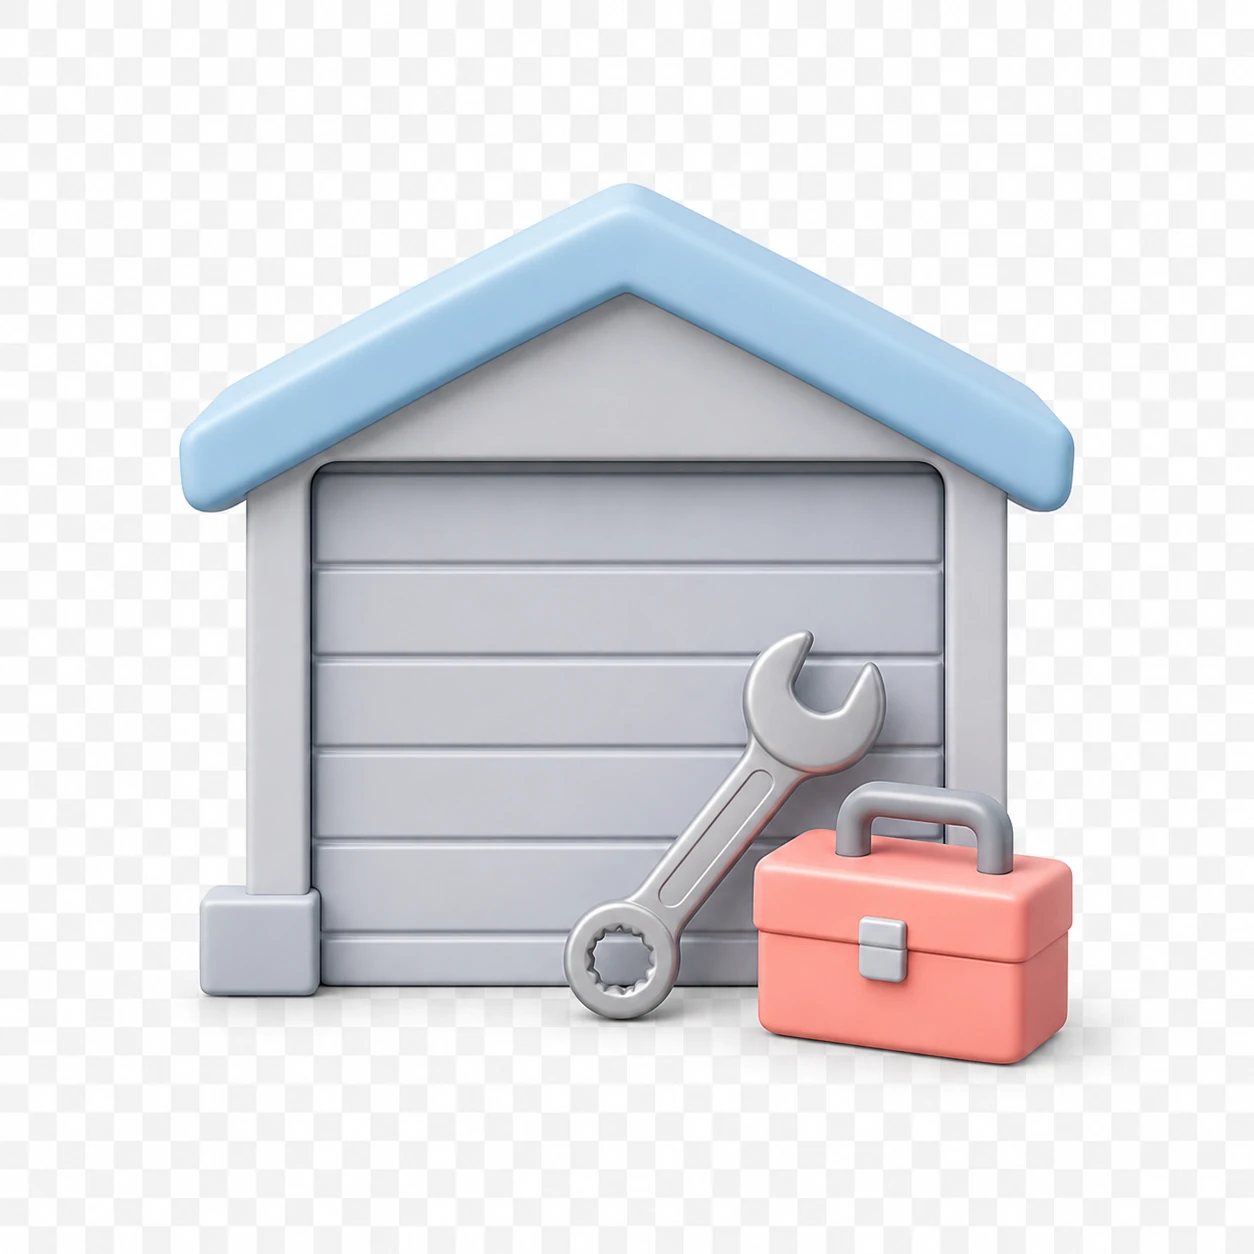
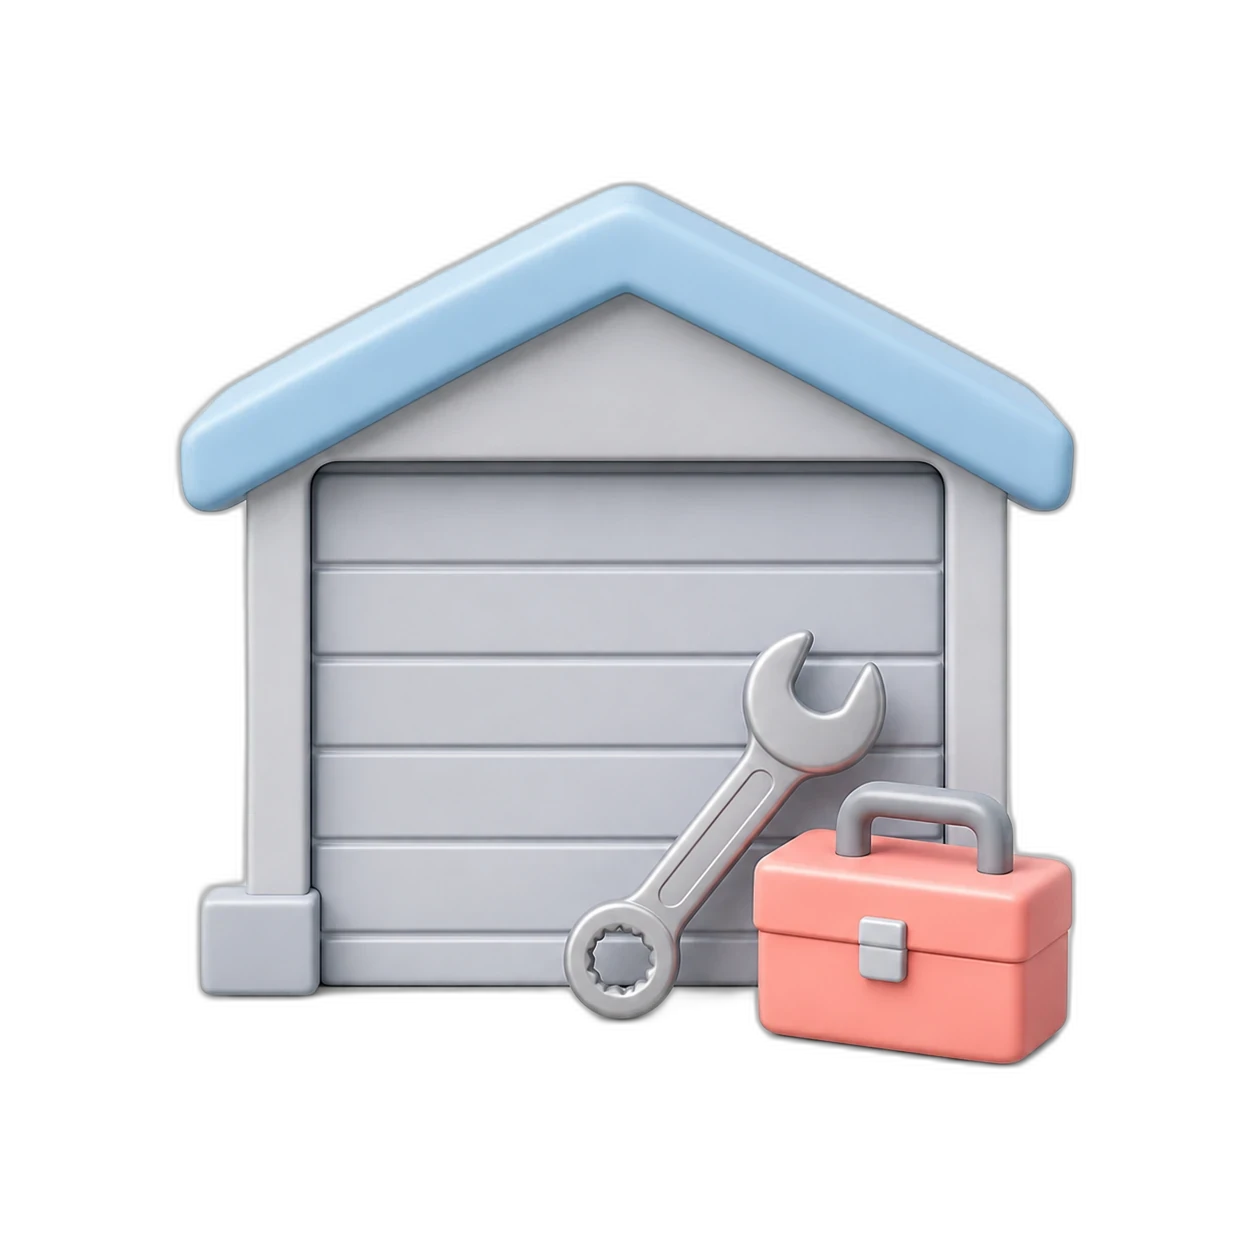
fix: fond transparent garage (rembg), Furniture64 recadré 1:1, Chambre principale → Chambre 1

diff --git a/app.py b/app.py
@@ -4189,7 +4189,7 @@ def menu():
     # Définir les pièces par défaut (correspond exactement aux 12 cartes du menu)
     ALL_DEFAULT_ROOMS = [
         # Chambres (optionnelles – peuvent être masquées et renommées)
-        {'key': 'chambre_parentale', 'name': 'Chambre principale', 'image': 'images/imageqfq/litparent.webp',          'category': 'chambre_parentale', 'fixed': False},
+        {'key': 'chambre_parentale', 'name': 'Chambre 1',          'image': 'images/imageqfq/litparent.webp',          'category': 'chambre_parentale', 'fixed': False},
         {'key': 'chambre1',          'name': 'Chambre 2',          'image': 'images/imageqfq/Furniture28.webp',        'category': 'chambre1',          'fixed': False},
         {'key': 'chambre2',          'name': 'Chambre 3',          'image': 'images/imageqfq/litados.webp',            'category': 'chambre2',          'fixed': False},
         {'key': 'chambre_garcon',    'name': 'Chambre 4',          'image': 'images/imageqfq/it.webp',                  'category': 'chambre_garcon', 'fixed': False},

diff --git a/routes/customize.py b/routes/customize.py
@@ -258,7 +258,7 @@ def personnaliser_maison():
 
     # Liste complète de toutes les pièces
     ALL_ROOMS = [
-        {'key': 'chambre_parentale', 'default_name': 'Chambre principale', 'image': 'images/imageqfq/litparent.webp',          'fixed': False},
+        {'key': 'chambre_parentale', 'default_name': 'Chambre 1',          'image': 'images/imageqfq/litparent.webp',          'fixed': False},
         {'key': 'chambre1',          'default_name': 'Chambre 2',          'image': 'images/imageqfq/Furniture28.webp',        'fixed': False},
         {'key': 'chambre2',          'default_name': 'Chambre 3',          'image': 'images/imageqfq/litados.webp',            'fixed': False},
         {'key': 'chambre_garcon',    'default_name': 'Chambre 4',          'image': 'images/imageqfq/it.webp',                  'fixed': False},
